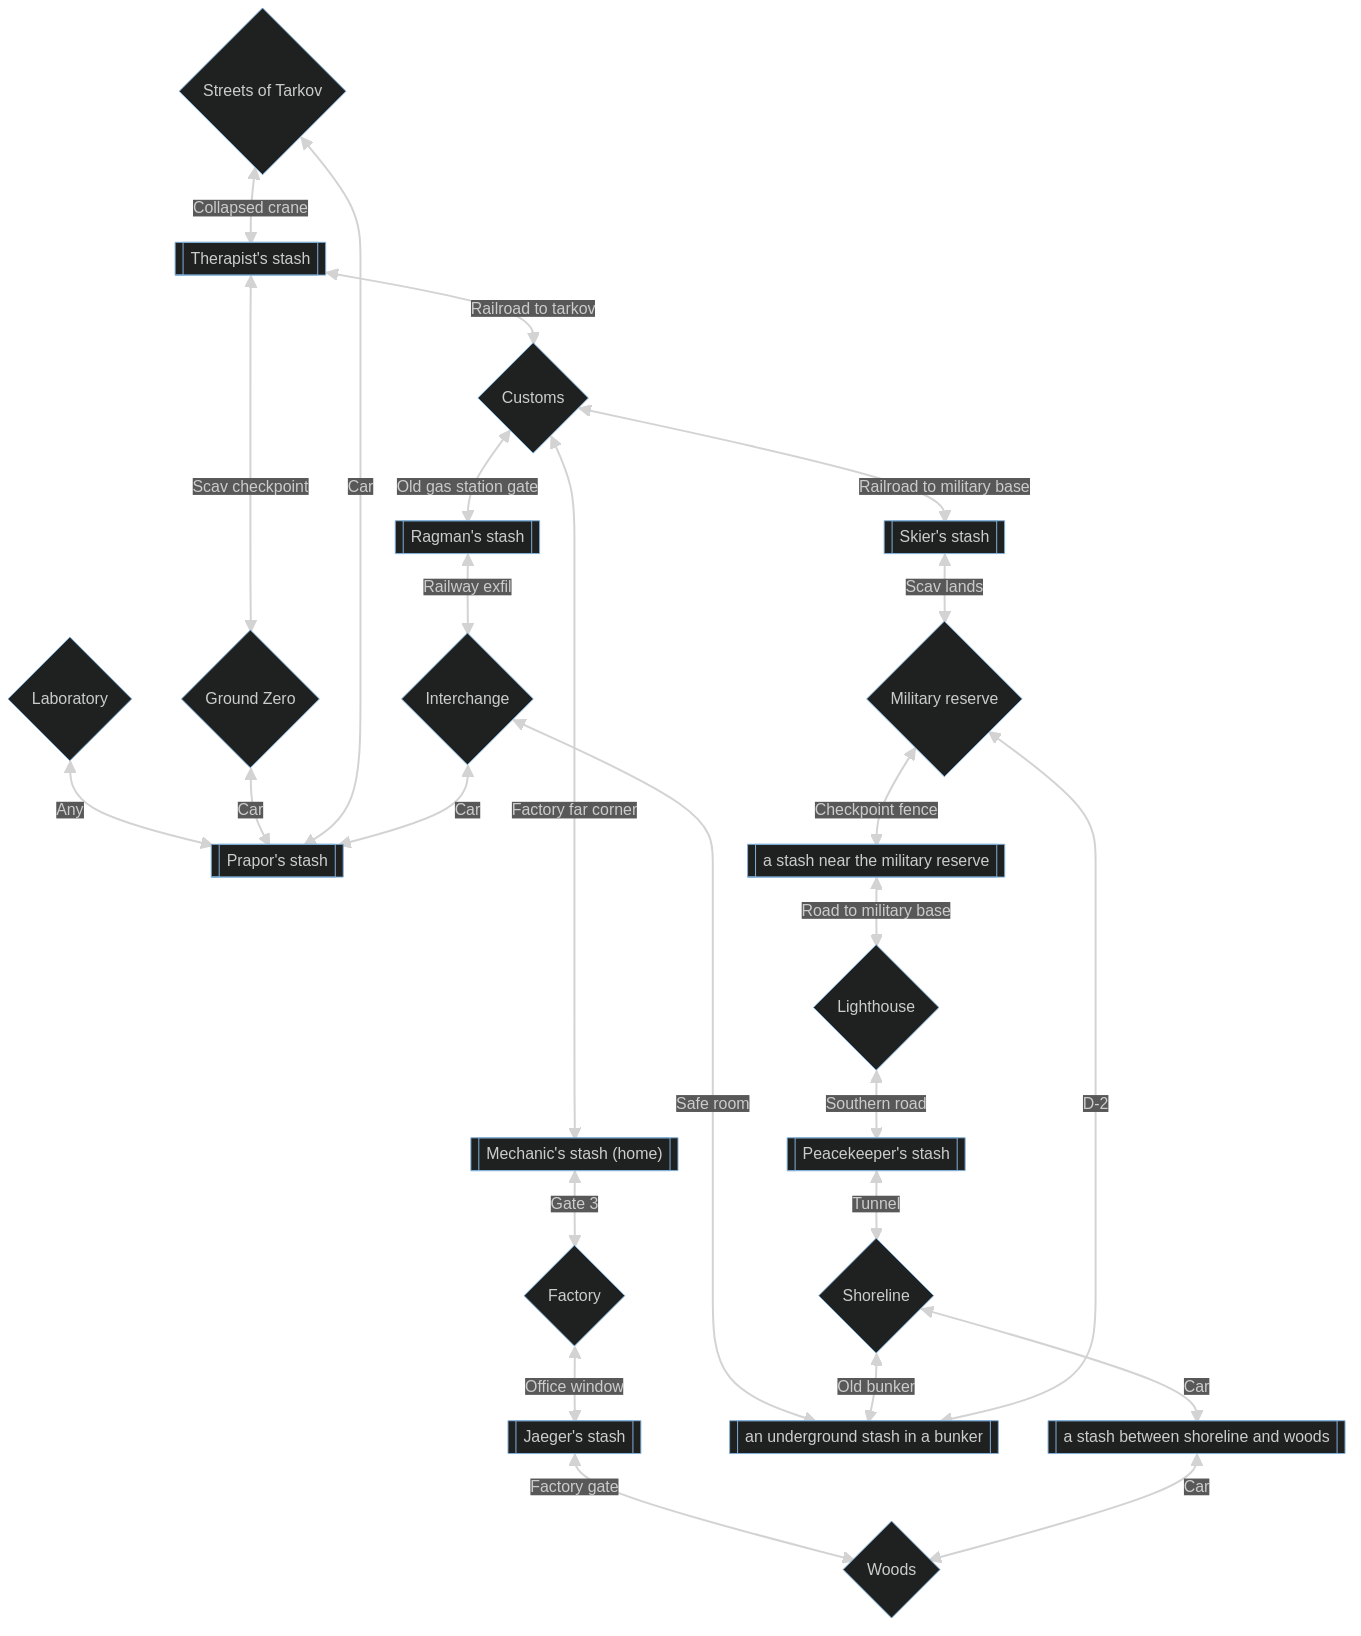
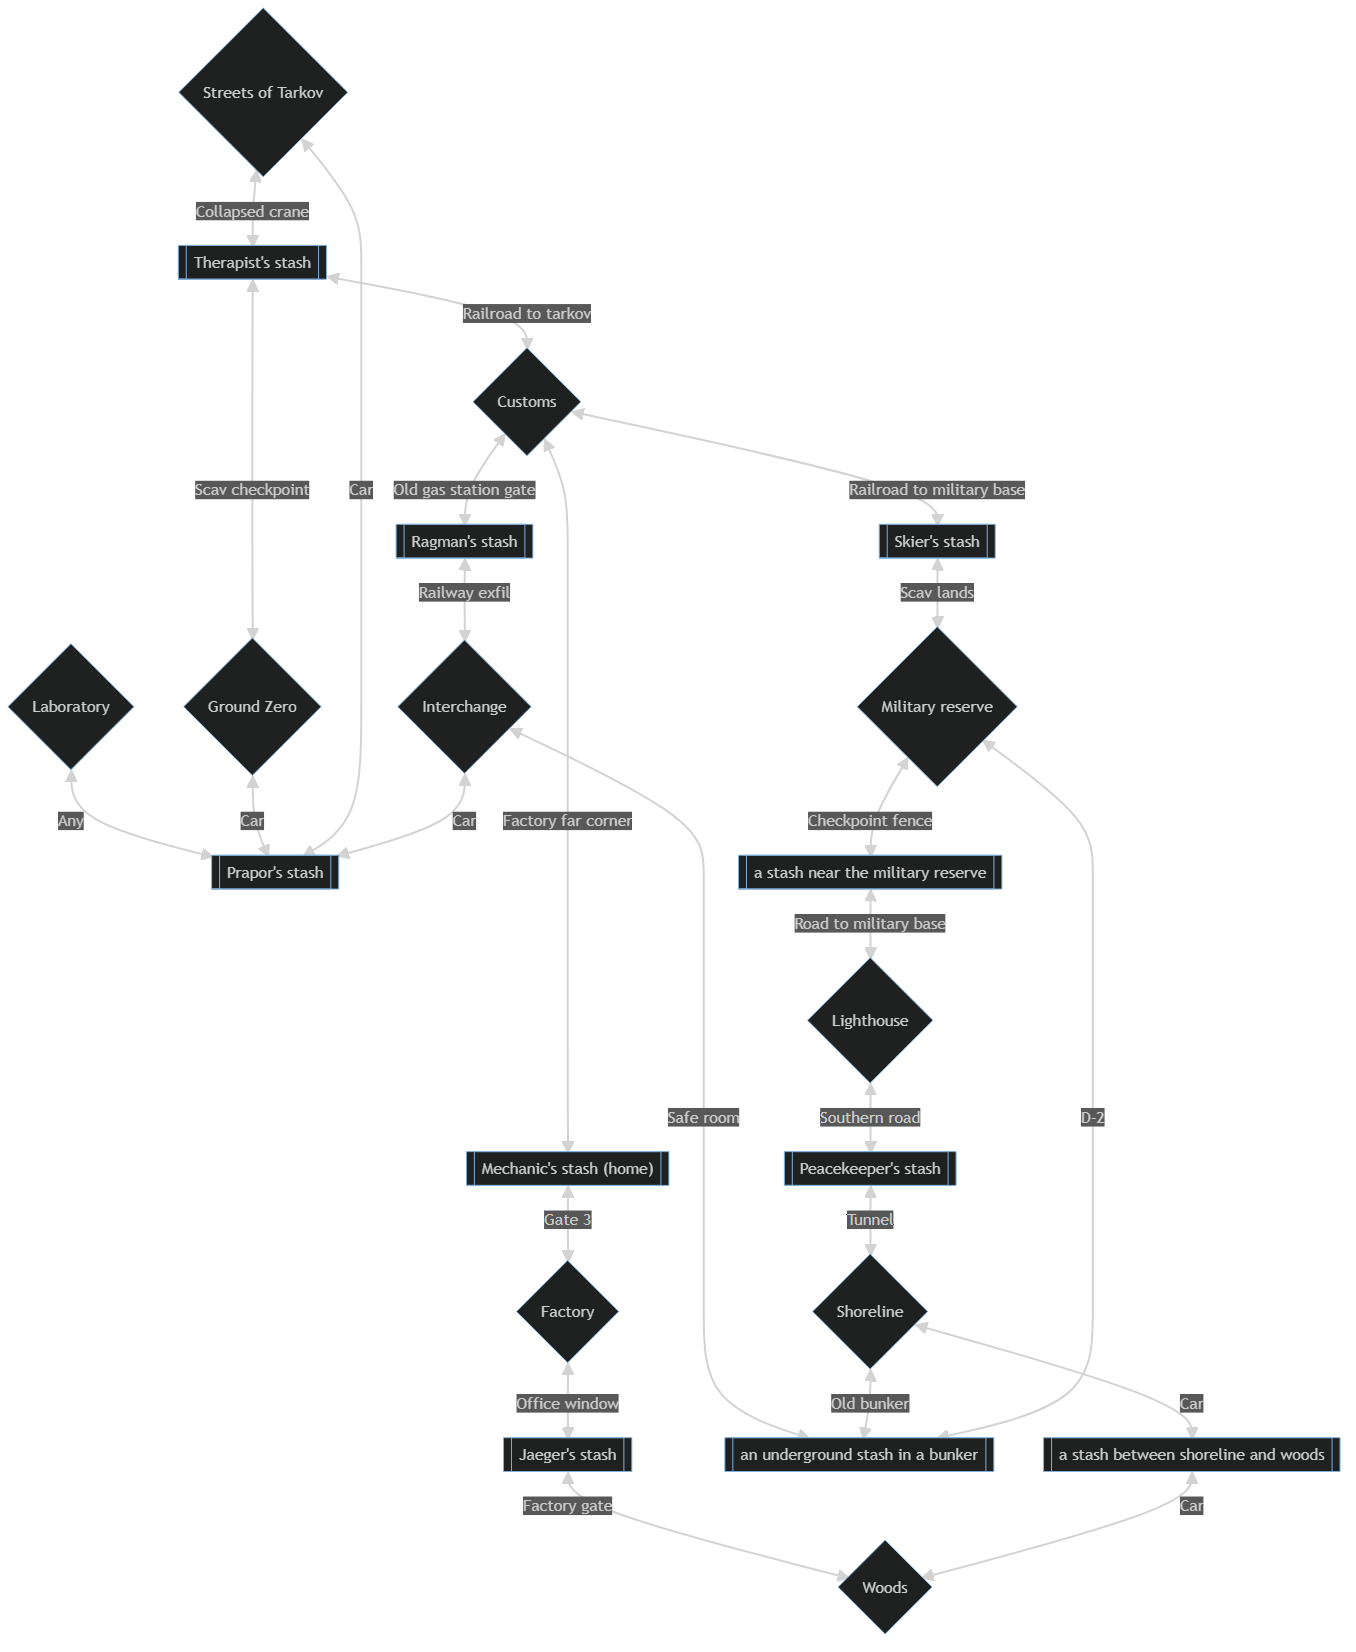
chore: update generated image from mermaid + fix lint error

diff --git a/jest.config.js b/jest.config.js
@@ -4,5 +4,5 @@ module.exports = {
   transform: {
     '^.+.tsx?$': ['ts-jest', {}],
   },
-  roots: ["src", "tests"]
+  roots: ['src', 'tests'],
 };
